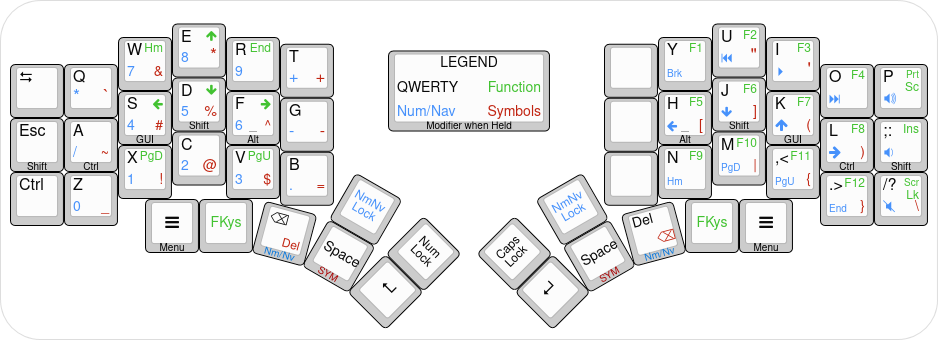
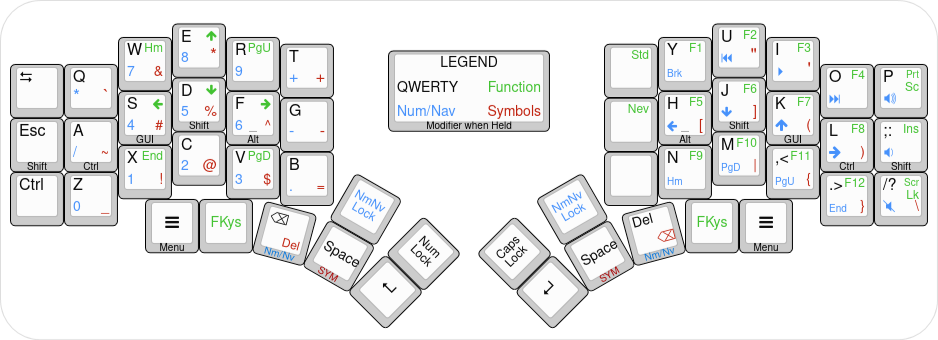
Move pgup pgdn home & end.

diff --git a/keyboards/splitkb/kyria/keymaps/nevp/keymap.c b/keyboards/splitkb/kyria/keymaps/nevp/keymap.c
@@ -192,19 +192,19 @@ const uint16_t PROGMEM keymaps[][MATRIX_ROWS][MATRIX_COLS] = {
  * Function Layer: Function keys
  *
  * ,------------------------------------------.                              ,------------------------------------------.
- * |       |      | Home |   ↑  |  End |      |                              |      |  F1  |  F2  |  F3  |  F4  | PrtScr|
+ * |       |      | Home |   ↑  | PgUp |      |                              |      |  F1  |  F2  |  F3  |  F4  | PrtScr|
  * |-------+------+------+------+------+------|                              |------+------+------+------+------+-------|
  * |       | Ctrl | GUI/←|Shft/↓| Alt/→|      |                              |      |Alt/F5|Sft/F6|GUI/F7|Ctl/F8|Sft/Ins|
  * |-------+------+------+------+------+------+-------------.  ,-------------+------+------+------+------+------+-------|
- * |       |      | PgDn |      | PgUp |      |      |      |  |      |      |      |  F9  |  F10 |  F11 |  F12 | ScrLk |
+ * |       |      |  End |      | PgDn |      |      |      |  |      |      |      |  F9  |  F10 |  F11 |  F12 | ScrLk |
  * `---------------------+------+------+------+------+------|  |------+------+------+------+------+---------------------'
  *                       |      |      |      |      |      |  |      |      |      |      |      |
  *                       `----------------------------------'  `----------------------------------'
  */
     [_FUNCTION] = LAYOUT(
-     _______,XXXXXXX,KC_HOME,  KC_UP, KC_END,XXXXXXX,                                   _______,  KC_F1,  KC_F2,  KC_F3,  KC_F4,KC_PSCR,
+     _______,XXXXXXX,KC_HOME,  KC_UP,KC_PGUP,XXXXXXX,                                   _______,  KC_F1,  KC_F2,  KC_F3,  KC_F4,KC_PSCR,
      _______,KC_LCTL,GUI_LFT,SFT_DWN,ALT_RGT,XXXXXXX,                                   _______, ALT_F5, SFT_F6, GUI_F7, CTL_F8,SFT_INS,
-     _______,XXXXXXX,KC_PGDN,XXXXXXX,KC_PGUP,XXXXXXX,_______,_______,   _______,_______,_______,  KC_F9, KC_F10, KC_F11, KC_F12,KC_SCRL,
+     _______,XXXXXXX, KC_END,XXXXXXX,KC_PGDN,XXXXXXX,_______,_______,   _______,_______,_______,  KC_F9, KC_F10, KC_F11, KC_F12,KC_SCRL,
                              _______,_______,_______,_______,_______,   _______,_______,_______,_______,_______
     ),
 
@@ -233,7 +233,7 @@ const uint16_t PROGMEM keymaps[][MATRIX_ROWS][MATRIX_COLS] = {
  * Repurpose SCL(D0) and SDA(D1) pins for LED indicators.
  * Left (master) board for Layer indicators.
  * Right(slave) board for Num and Caps Lock indicators.
- * (Was unable to get Layers to indicate on the slave side. Even with 
+ * (Unable to get Layers to indicate on the slave side. Even with 
  * SPLIT_LAYER_STATE_ENABLE defined in config.h.)
  */
 void keyboard_pre_init_user(void) {
